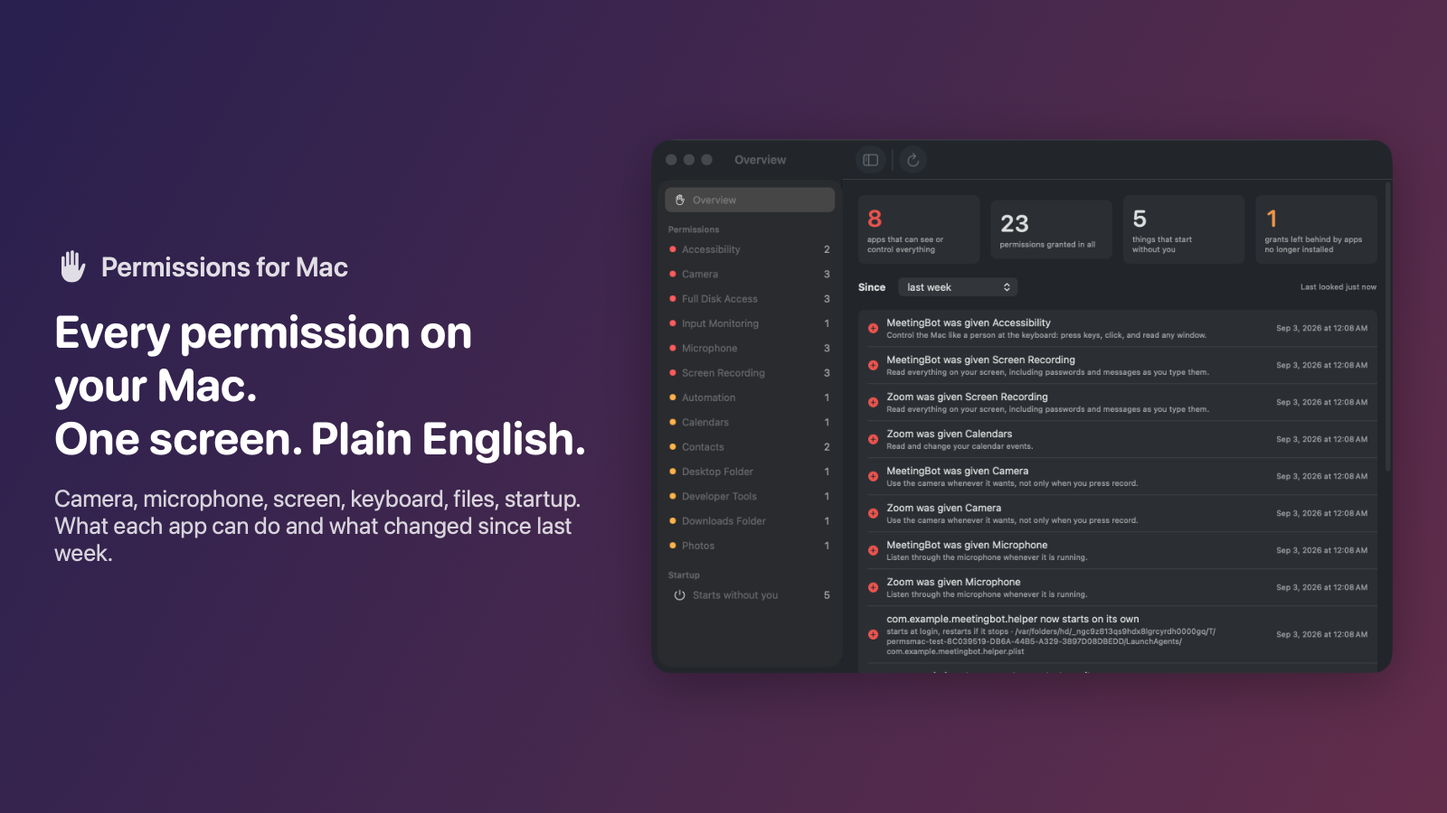
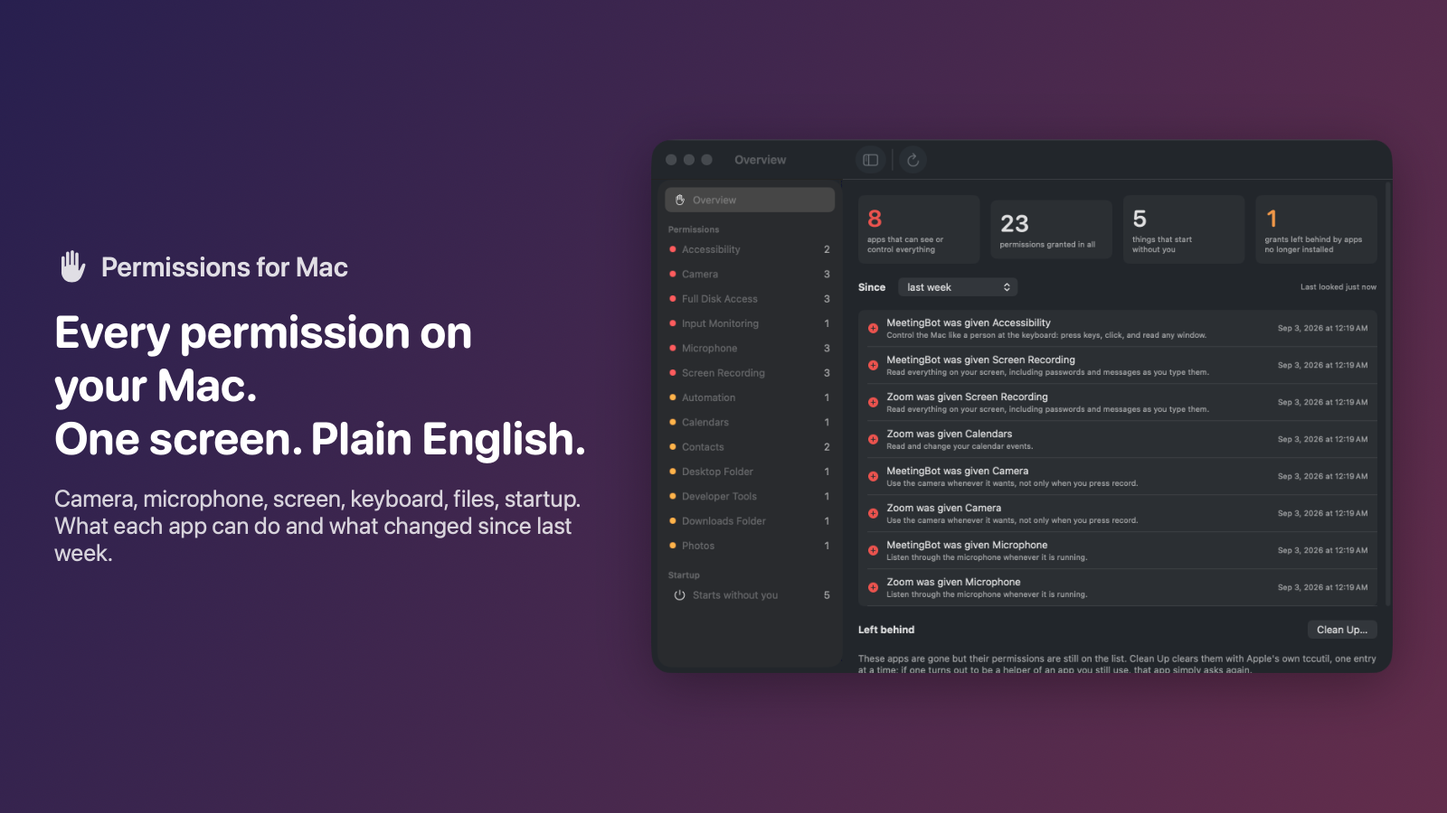
1.0.1: Clean Up for permissions left behind by removed apps
Uses Apple's tccutil reset, one entry at a time, after showing the list. Entries for installed apps, path-based entries and Apple's own are always skipped. CLI: orphans --commands and --clean. Wording everywhere becomes "never changes a permission for an app you have".

diff --git a/Sources/PermsMac/Tests/CleanupSuite.swift b/Sources/PermsMac/Tests/CleanupSuite.swift
@@ -1,0 +1,46 @@
+//  Permissions for Mac — MIT licensed. See LICENSE.
+import Foundation
+
+enum CleanupSuite {
+    static func grant(_ s: String, _ c: String, path: Bool = false, scope: Grant.Scope = .user) -> Grant {
+        Grant(service: s, client: c, clientIsPath: path, state: .allowed, reason: .userConsent, target: nil, modified: nil, scope: scope)
+    }
+    static let gone = "com.example.gone.\(UUID().uuidString)"
+    static let suite = TestSuite(name: "Cleanup", cases: [
+        TestCase(name: "commands use Apple's service names") { t in
+            t.equal(Cleanup.serviceArgument("kTCCServiceScreenCapture"), "ScreenCapture", "prefix dropped")
+            t.equal(Cleanup.serviceArgument("Odd"), "Odd", "unknown passes through")
+            t.equal(Cleanup.command(grant("kTCCServiceCamera", gone)), "tccutil reset Camera \(gone)", "command line")
+            let cmds = Cleanup.commands([grant("kTCCServiceCamera", gone), grant("kTCCServiceCamera", gone, scope: .system), grant("kTCCServiceMicrophone", "com.apple.FaceTime")])
+            t.equal(cmds, ["tccutil reset Camera \(gone)"], "deduplicated, Apple skipped")
+        },
+        TestCase(name: "refuses installed apps, paths and Apple") { t in
+            t.check(Cleanup.objection(grant("kTCCServiceCamera", "/usr/bin/say", path: true)) != nil, "path refused")
+            t.check(Cleanup.objection(grant("kTCCServiceCamera", "com.apple.Safari")) != nil, "apple refused")
+            t.check(Cleanup.objection(grant("kTCCServiceCamera", "com.apple.Calculator")) != nil, "installed apple app refused")
+            t.check(Cleanup.objection(grant("kTCCServiceCamera", gone)) == nil, "gone app allowed")
+            // Something that is certainly installed and not Apple: this app's own build if registered, else skip the check.
+            if let b = Bundle.main.bundleIdentifier, b == "com.keithadler.permsmac" { t.check(Cleanup.objection(grant("kTCCServiceCamera", b)) != nil, "installed non-Apple refused") }
+        },
+        TestCase(name: "runs one reset per entry and reports") { t in
+            var calls: [[String]] = []
+            let saved = Cleanup.runner; defer { Cleanup.runner = saved }
+            Cleanup.runner = { args in calls.append(args); return args.last == "com.example.bad" ? (1, "tccutil: Failed to reset") : (0, "Successfully reset \(args[1])") }
+            let r = Cleanup.run([grant("kTCCServiceCamera", gone), grant("kTCCServiceCamera", gone, scope: .system), grant("kTCCServiceMicrophone", gone),
+                                 grant("kTCCServiceCamera", "com.example.bad"), grant("kTCCServiceCamera", "/bin/x", path: true), grant("kTCCServiceCamera", "com.apple.x")])
+            t.equal(calls.count, 3, "three resets for four qualifying rows (duplicate covered)")
+            t.equal(calls.first, ["reset", "Camera", gone], "arguments")
+            t.equal(r.cleared.count, 3, "cleared includes the duplicate")
+            t.equal(r.failed.count, 1, "one failure"); t.equal(r.failed.first?.1, "tccutil: Failed to reset", "failure text")
+            t.equal(r.skipped.count, 2, "two skipped")
+            t.equal(r.summary, "3 cleared, 1 failed, 2 skipped", "summary")
+        },
+        TestCase(name: "never runs anything when nothing qualifies") { t in
+            var ran = false
+            let saved = Cleanup.runner; defer { Cleanup.runner = saved }
+            Cleanup.runner = { _ in ran = true; return (0, "") }
+            let r = Cleanup.run([grant("kTCCServiceCamera", "com.apple.x"), grant("kTCCServiceCamera", "/x", path: true)])
+            t.check(!ran, "no command ran"); t.equal(r.cleared.count, 0, "nothing cleared"); t.equal(r.summary, "0 cleared, 2 skipped", "summary")
+        },
+    ])
+}

diff --git a/Sources/PermsMac/PermsMacApp.swift b/Sources/PermsMac/PermsMacApp.swift
@@ -95,6 +95,8 @@ struct AccessBanner: View {
 
 struct OverviewView: View {
     @EnvironmentObject var model: PermsModel
+    @State private var confirmClean = false
+    @State private var cleanResult: String?
     var body: some View {
         ScrollView {
             VStack(alignment: .leading, spacing: 18) {
@@ -118,15 +120,45 @@ struct OverviewView: View {
                     VStack(spacing: 0) { ForEach(model.changes) { ChangeRow(change: $0) } }
                         .background(.quaternary.opacity(0.4), in: RoundedRectangle(cornerRadius: 8))
                 }
-                if !model.orphans.isEmpty {
-                    Text("Left behind").font(.headline)
-                    Text("These apps are gone but their permissions are still on the list. Removing them in System Settings is tidy, not urgent.").font(.callout).foregroundStyle(.secondary)
+                if !model.orphans.isEmpty || cleanResult != nil {
+                    HStack {
+                        Text("Left behind").font(.headline)
+                        Spacer()
+                        if !Cleanup.commands(model.orphans).isEmpty { Button("Clean Up…") { confirmClean = true } }
+                    }
+                    Text("These apps are gone but their permissions are still on the list. Clean Up clears them with Apple's own tccutil, one entry at a time; if one turns out to be a helper of an app you still use, that app simply asks again.").font(.callout).foregroundStyle(.secondary)
+                    if let cleanResult { Text(cleanResult).font(.callout) }
                     VStack(spacing: 0) { ForEach(model.orphans) { GrantRow(grant: $0, showService: true) } }
                         .background(.quaternary.opacity(0.4), in: RoundedRectangle(cornerRadius: 8))
                 }
             }.padding(20)
         }
         .navigationTitle("Overview")
+        .sheet(isPresented: $confirmClean) { CleanupSheet(grants: model.orphans) { r in cleanResult = r.summary.prefix(1).uppercased() + r.summary.dropFirst() + "."; model.refresh(notify: false) } }
+    }
+}
+
+struct CleanupSheet: View {
+    @Environment(\.dismiss) var dismiss
+    let grants: [Grant]
+    let done: (CleanupResult) -> Void
+    var body: some View {
+        let able = grants.filter { Cleanup.objection($0) == nil }
+        let unable = grants.filter { Cleanup.objection($0) != nil }
+        VStack(alignment: .leading, spacing: 12) {
+            Text("Clear \(able.count) leftover \(able.count == 1 ? "permission" : "permissions")?").font(.title3.bold())
+            Text("Each line runs Apple's tccutil for one app that no longer exists on disk. Nothing else is touched.").font(.callout).foregroundStyle(.secondary)
+            ScrollView {
+                VStack(alignment: .leading, spacing: 4) {
+                    ForEach(Cleanup.commands(able), id: \.self) { Text($0).font(.system(.caption, design: .monospaced)) }
+                    if !unable.isEmpty {
+                        Text("Left as they are:").font(.caption.bold()).padding(.top, 6)
+                        ForEach(unable) { g in Text("\(Catalog.service(g.service).name) · \(g.client): \(Cleanup.objection(g) ?? "")").font(.caption).foregroundStyle(.secondary) }
+                    }
+                }.frame(maxWidth: .infinity, alignment: .leading).padding(10)
+            }.frame(height: 200).background(.quaternary.opacity(0.4), in: RoundedRectangle(cornerRadius: 8))
+            HStack { Spacer(); Button("Cancel") { dismiss() }.keyboardShortcut(.cancelAction); Button("Clear") { done(Cleanup.run(able)); dismiss() }.keyboardShortcut(.defaultAction).buttonStyle(.borderedProminent) }
+        }.padding(20).frame(width: 560)
     }
 }
 

diff --git a/Sources/PermsMac/Cleanup.swift b/Sources/PermsMac/Cleanup.swift
@@ -1,0 +1,63 @@
+//  Permissions for Mac — MIT licensed. See LICENSE.
+//
+//  The one thing this app changes, and only when asked: permissions left behind by apps that no
+//  longer exist on disk. It uses Apple's own `tccutil reset`, one entry at a time, the same thing
+//  the "−" button in System Settings does. It refuses to touch an entry for an app that is still
+//  installed, so the promise stays: it never changes a permission for an app you have.
+
+import Foundation
+
+struct CleanupResult {
+    var cleared: [Grant] = []
+    var failed: [(Grant, String)] = []
+    var skipped: [(Grant, String)] = []
+    var summary: String {
+        var bits = ["\(cleared.count) cleared"]
+        if !failed.isEmpty { bits.append("\(failed.count) failed") }
+        if !skipped.isEmpty { bits.append("\(skipped.count) skipped") }
+        return bits.joined(separator: ", ")
+    }
+}
+
+enum Cleanup {
+    /// Runs one command and returns (exit code, combined output). Tests replace this.
+    static var runner: ([String]) -> (Int32, String) = { args in
+        let p = Process(); p.executableURL = URL(fileURLWithPath: "/usr/bin/tccutil"); p.arguments = args
+        let pipe = Pipe(); p.standardOutput = pipe; p.standardError = pipe
+        do { try p.run() } catch { return (127, "\(error)") }
+        p.waitUntilExit()
+        return (p.terminationStatus, String(decoding: pipe.fileHandleForReading.readDataToEndOfFile(), as: UTF8.self).trimmingCharacters(in: .whitespacesAndNewlines))
+    }
+
+    /// The tccutil service name is the key without its prefix: kTCCServiceCamera → Camera.
+    static func serviceArgument(_ key: String) -> String { key.hasPrefix("kTCCService") ? String(key.dropFirst("kTCCService".count)) : key }
+
+    /// Why an entry cannot be cleaned, or nil when it can.
+    static func objection(_ g: Grant) -> String? {
+        if g.clientIsPath || g.client.hasPrefix("/") { return "tccutil only works with bundle identifiers, not paths" }
+        if g.client.hasPrefix("com.apple.") { return "Apple's own entries are left alone" }
+        if !Apps.isOrphan(g.client, isPath: g.clientIsPath) { return "still installed; change it in System Settings" }
+        return nil
+    }
+
+    static func command(_ g: Grant) -> String { "tccutil reset \(serviceArgument(g.service)) \(g.client)" }
+
+    /// The commands a person could run themselves, for the entries that qualify.
+    static func commands(_ grants: [Grant]) -> [String] {
+        Array(Set(grants.filter { objection($0) == nil }.map(command))).sorted()
+    }
+
+    static func run(_ grants: [Grant]) -> CleanupResult {
+        var r = CleanupResult()
+        var done = Set<String>()
+        for g in grants {
+            if let why = objection(g) { r.skipped.append((g, why)); continue }
+            let key = "\(g.service)|\(g.client)"
+            if done.contains(key) { r.cleared.append(g); continue }    // same entry in both databases: one reset covers it
+            done.insert(key)
+            let (code, out) = runner(["reset", serviceArgument(g.service), g.client])
+            if code == 0 { r.cleared.append(g) } else { r.failed.append((g, out.isEmpty ? "tccutil exited \(code)" : out)) }
+        }
+        return r
+    }
+}

diff --git a/Sources/PermsMac/CLI.swift b/Sources/PermsMac/CLI.swift
@@ -14,6 +14,8 @@ enum CLI {
       permsmac changes [--since 7d|30d|24h] [--json]      what changed; exit 1 when something did
       permsmac startup [--apple] [--json]                 launch agents, daemons and login helpers
       permsmac orphans [--json]                           grants left behind by apps no longer installed
+      permsmac orphans --commands                         the tccutil lines that would clear them, to run yourself
+      permsmac orphans --clean [--json]                   clear them now with Apple's tccutil (only apps that are gone)
       permsmac explain <service>                          what a permission lets an app do
       permsmac open <service|login>                       the System Settings pane for it
       permsmac status [--json]                            can it read the database yet, when it last looked
@@ -21,6 +23,8 @@ enum CLI {
       permsmac selftest [--filter S] [--list] [--json]
       permsmac help | version
 
+    `orphans --clean` is the one thing that changes anything, and only for apps that no longer exist on
+    disk; entries for installed apps and Apple's own are always skipped.
     Reading the permissions database needs Full Disk Access for the process running this command:
     the app after you grant it, or Terminal if you have granted Terminal. Nothing here writes.
     Set PERMSMAC_HOME to keep the history somewhere else (tests do).
@@ -100,6 +104,21 @@ enum CLI {
             if let s = value("--service", args) {
                 guard let svc = findService(s) else { err("unknown permission: \(s)\n"); return 64 }
                 grants = grants.filter { $0.service == svc.key }
+            }
+            if cmd == "orphans" && flag("--commands", args) {
+                let c = Cleanup.commands(grants); for l in c { out(l) }
+                if c.isEmpty { err("Nothing to clear.\n") }; return c.isEmpty ? 0 : 1
+            }
+            if cmd == "orphans" && flag("--clean", args) {
+                let r = Cleanup.run(grants)
+                if js { out(json(["cleared": r.cleared.map(dict), "failed": r.failed.map { ["grant": dict($0.0), "error": $0.1] }, "skipped": r.skipped.map { ["grant": dict($0.0), "why": $0.1] }])) }
+                else {
+                    for g in r.cleared { out("cleared  \(Catalog.service(g.service).name)  \(g.client)") }
+                    for (g, e) in r.failed { out("failed   \(Catalog.service(g.service).name)  \(g.client): \(e)") }
+                    for (g, w) in r.skipped { out("skipped  \(Catalog.service(g.service).name)  \(g.client): \(w)") }
+                    out(r.summary)
+                }
+                return r.failed.isEmpty ? 0 : 2
             }
             if js { out(json(["complete": snap.complete, "grants": grants.map(dict)])); return cmd == "orphans" && !grants.isEmpty ? 1 : 0 }
             let groups = Dictionary(grouping: grants, by: \.service)

diff --git a/docs/Help.es.html b/docs/Help.es.html
@@ -39,7 +39,7 @@
 <tr><td>Gris</td><td>Limitado o inofensivo por sí solo</td><td>Recordatorios, Bluetooth, estado de Concentración</td></tr>
 </table>
 <p>Elige uno y la parte superior de la ventana dice, en una frase, qué puede hacer una app que lo tenga. Debajo, cada app que lo tiene, cómo lo obtuvo y cuándo.</p>
-<p><strong>Not installed</strong> junto a un nombre significa que la app ya no existe pero su permiso sigue en la lista. Conviene limpiarlo, pero no es urgente.</p>
+<p><strong>Not installed</strong> junto a un nombre significa que la app ya no existe pero su permiso sigue en la lista. Nada puede usar un permiso de una app que ya no existe, así que es orden, no urgencia. El botón <strong>Clean Up…</strong> de la vista general muestra esas entradas y, cuando confirmas, las borra una a una con el <code>tccutil reset</code> de Apple, lo mismo que hace el botón − de Ajustes del Sistema. Las entradas de apps instaladas, las guardadas por ruta y las de Apple nunca se tocan. Si una resulta ser un ayudante de una app que sigues usando, esa app simplemente vuelve a preguntar.</p>
 
 <h2 id="changes">Qué cambió</h2>
 <p>Cada vez que mira (cada cinco minutos mientras está abierta y cada vez que la traes al frente), Permissions for Mac guarda un pequeño registro de lo que vio. La vista general compara el registro más reciente con el de ayer, la semana pasada, el mes pasado o hace tres meses y lista lo que se concedió, rechazó o retiró, y qué elementos de inicio aparecieron o desaparecieron.</p>
@@ -50,7 +50,7 @@
 <p>Esta parte no necesita ningún permiso: son archivos normales que cualquiera puede leer.</p>
 
 <h2 id="fix">Cambiar algo</h2>
-<p>Permissions for Mac nunca cambia un interruptor. Apple solo lo permite en Ajustes del Sistema, y una herramienta que lee no debería también escribir. Lo que hace es llevarte allí con un clic:</p>
+<p>Permissions for Mac nunca cambia un permiso de una app que tienes. Apple solo lo permite en Ajustes del Sistema, y una herramienta que lee no debería también escribir. Lo que hace es llevarte allí con un clic:</p>
 <ul>
 <li><strong>Change in System Settings…</strong> en la parte superior de cada permiso abre el panel exacto.</li>
 <li>Clic derecho en cualquier fila para <strong>Show in Finder</strong>, el panel de ajustes o copiar el identificador.</li>
@@ -63,6 +63,8 @@ permsmac list
 permsmac changes --since 7d       # sale con 1 cuando algo cambió
 permsmac startup
 permsmac orphans
+permsmac orphans --commands       # las líneas de tccutil, para ejecutarlas tú
+permsmac orphans --clean          # ejecutarlas ahora
 permsmac explain accessibility
 permsmac open "screen recording"</pre>
 <p>El comando lee la misma base de datos, así que el proceso que lo ejecuta necesita Acceso total al disco: la app lo tiene una vez concedido; un comando en Terminal necesita que Terminal lo tenga.</p>

diff --git a/docs/Help.html b/docs/Help.html
@@ -39,7 +39,7 @@
 <tr><td>Grey</td><td>Narrow or harmless on its own</td><td>Reminders, Bluetooth, Focus status</td></tr>
 </table>
 <p>Pick one and the top of the window says, in a sentence, what an app holding it can do. Under it, every app that has it, with how it got it ("you clicked Allow", "set in System Settings", "set by a management profile") and when.</p>
-<p><strong>Not installed</strong> next to a name means the app is gone but its permission is still on the list. That is tidy to clean up, not urgent: nothing can use a permission it no longer exists to use.</p>
+<p><strong>Not installed</strong> next to a name means the app is gone but its permission is still on the list. Nothing can use a permission it no longer exists to use, so this is tidy rather than urgent. The Overview's <strong>Clean Up…</strong> button shows those entries and, when you confirm, clears them one at a time with Apple's own <code>tccutil reset</code>, the same thing the − button in System Settings does. Entries for apps that are still installed, entries stored by path, and Apple's own are never touched. If one of them turns out to be a helper of an app you still use, that app simply asks again.</p>
 
 <h2 id="changes">What changed</h2>
 <p>Each time it looks (every five minutes while it is open, and whenever you bring it forward), Permissions for Mac keeps a small record of what it saw. The Overview compares the newest record with the one from yesterday, last week, last month or three months ago and lists what was given, refused or removed, and which startup items appeared or went.</p>
@@ -51,7 +51,7 @@
 <p>This part needs no permission: they are plain files anyone can read.</p>
 
 <h2 id="fix">Changing something</h2>
-<p>Permissions for Mac never flips a switch. Apple only allows that in System Settings, and a tool that reads should not also write. What it does is get you there in one click:</p>
+<p>Permissions for Mac never changes a permission for an app you have. Apple only allows that in System Settings, and a tool that reads should not also write. What it does is get you there in one click:</p>
 <ul>
 <li><strong>Change in System Settings…</strong> at the top of every permission opens the exact pane.</li>
 <li>Right-click any row for <strong>Show in Finder</strong>, the settings pane, or copying the identifier.</li>
@@ -65,6 +65,8 @@ permsmac list --service camera --json
 permsmac changes --since 7d       # exit 1 when something changed, so it works in a script
 permsmac startup
 permsmac orphans                  # grants left behind by removed apps
+permsmac orphans --commands       # the tccutil lines, to run yourself
+permsmac orphans --clean          # run them now
 permsmac explain accessibility
 permsmac open "screen recording"  # the System Settings pane
 permsmac status</pre>

diff --git a/docs/announcement.html b/docs/announcement.html
@@ -21,7 +21,7 @@
 <div class="card"><h3>Says what it means</h3>"Read everything on your screen, including passwords and messages as you type them." Not "Screen Recording". Most sensitive first.</div>
 <div class="card"><h3>Tells you what changed</h3>A record each time it looks. Given, refused, removed, since yesterday or last month. A notification when an app gains one of the big ones.</div>
 <div class="card"><h3>Shows what starts without you</h3>Launch agents, daemons and login helpers, with when they run and what they start. Apple's own hidden by default.</div>
-<div class="card"><h3>Reads. Never changes anything.</h3>One Full Disk Access grant so it can read the list. Every switch stays in System Settings, one click away from each row.</div>
+<div class="card"><h3>Never changes a permission for an app you have</h3>One Full Disk Access grant so it can read the list. Every switch stays in System Settings, one click away. Leftovers from apps you removed can be cleared in one click, with Apple's own tool.</div>
 </div>
 <img src="screenshots/screen-recording.png" alt="Screen Recording: which apps hold it, how they got it, when">
 <h2>Also a real command line</h2>

diff --git a/Sources/PermsMac/Promo.swift b/Sources/PermsMac/Promo.swift
@@ -12,7 +12,7 @@ enum Promo {
         let cards: [(String, String, String, String?)] = [
             ("1-hero", "Every permission on your Mac.\nOne screen. Plain English.", "Camera, microphone, screen, keyboard, files, startup. What each app can do and what changed since last week.", "overview.png"),
             ("2-change", "Zoom was given Screen Recording.\nThursday.", "Permissions for Mac keeps a record each time it looks and tells you when something new appears.", "screen-recording.png"),
-            ("3-honest", "It reads. It never changes anything.", "One Full Disk Access grant so it can read the list. The switches stay in System Settings, one click away.", "camera.png"),
+            ("3-honest", "It never changes a permission\nfor an app you have.", "One Full Disk Access grant so it can read the list. The switches stay in System Settings, one click away. Leftovers from apps you removed: one click, Apple's own tool.", "camera.png"),
             ("4-free", "Free. Open source. No account.", "MIT licensed, no server, no analytics. Also a real command line: permsmac changes --since 7d", nil),
         ]
         for (name, title, sub, shot) in cards {

diff --git a/Sources/PermsMac/Screenshots.swift b/Sources/PermsMac/Screenshots.swift
@@ -23,8 +23,9 @@ enum Screenshots {
         let model = PermsModel.shared
         // Two records a week apart so the overview has changes to show.
         let earlier = TCC.read()
-        var records = [Record(date: Date().addingTimeInterval(-8 * 86400), grants: earlier.grants.filter { !Demo.recent.contains($0.client) }, startup: [], complete: true)]
-        History.append(Record(grants: earlier.grants, startup: [], complete: true), to: &records); History.save(records)
+        let startup = Startup.scan()   // present in both records: the demo shows permission changes, not temp-folder paths
+        var records = [Record(date: Date().addingTimeInterval(-8 * 86400), grants: earlier.grants.filter { !Demo.recent.contains($0.client) }, startup: startup, complete: true)]
+        History.append(Record(grants: earlier.grants, startup: startup, complete: true), to: &records); History.save(records)
         model.records = records
         model.refresh(notify: false)
 

diff --git a/Sources/PermsMac/TestKit.swift b/Sources/PermsMac/TestKit.swift
@@ -19,7 +19,7 @@ struct TestCase { let name: String; let run: @MainActor (T) throws -> Void }
 struct TestSuite { let name: String; let cases: [TestCase] }
 
 enum TestKit {
-    static var suites: [TestSuite] { [CatalogSuite.suite, TCCSuite.suite, HistorySuite.suite, StartupSuite.suite, CLISuite.suite] }
+    static var suites: [TestSuite] { [CatalogSuite.suite, TCCSuite.suite, HistorySuite.suite, StartupSuite.suite, CLISuite.suite, CleanupSuite.suite] }
 
     struct Result { let suite: String, name: String, failures: [String], skipped: String?, checks: Int, ms: Double; var passed: Bool { failures.isEmpty && skipped == nil } }
 

diff --git a/Tests/PermsMacTests/SuiteTests.swift b/Tests/PermsMacTests/SuiteTests.swift
@@ -12,4 +12,5 @@ final class SuiteTests: XCTestCase {
     @MainActor func testHistory() { runSuite("History") }
     @MainActor func testStartup() { runSuite("Startup") }
     @MainActor func testCLI() { runSuite("CLI") }
+    @MainActor func testCleanup() { runSuite("Cleanup") }
 }

diff --git a/README.md b/README.md
@@ -2,11 +2,11 @@
 
 Every permission on your Mac on one screen, in plain English, with what changed since last week.
 
-Camera, microphone, screen recording, keyboard, files, contacts, automation, and everything that starts without you. Each one with a sentence that says what an app holding it can actually do, and a button to the exact System Settings pane. It reads and never changes anything.
+Camera, microphone, screen recording, keyboard, files, contacts, automation, and everything that starts without you. Each one with a sentence that says what an app holding it can actually do, and a button to the exact System Settings pane. It never changes a permission for an app you have.
 
 ## Download
 
-**[Download Permissions-for-Mac-1.0.0.dmg](https://github.com/keithadler/permsmac/releases/latest/download/Permissions-for-Mac-1.0.0.dmg)** (macOS 14 or later, Apple Silicon and Intel)
+**[Download Permissions-for-Mac-1.0.1.dmg](https://github.com/keithadler/permsmac/releases/latest/download/Permissions-for-Mac-1.0.1.dmg)** (macOS 14 or later, Apple Silicon and Intel)
 
 Open the DMG, drag the app to Applications, open it. The first time, macOS says the app is from an unidentified developer: right-click the app, choose Open, then Open again. That is once.
 
@@ -16,12 +16,12 @@ When the app asks for Full Disk Access, that is the one permission it needs: mac
 
 ## What it does
 
-- **One list.** Every permission macOS tracks, grouped by what it lets an app do, most sensitive first. Apps you have removed but that still hold a permission are marked.
+- **One list.** Every permission macOS tracks, grouped by what it lets an app do, most sensitive first. Apps you have removed but that still hold a permission are marked, and one click clears those leftovers with Apple's own `tccutil`, only for apps that no longer exist on disk.
 - **Plain English.** "Read everything on your screen, including passwords and messages as you type them." Not "Screen Recording".
 - **What changed.** Each time it looks it keeps a small record. The overview shows what was granted, refused or removed since yesterday, last week, or last month, and a notification arrives when an app gains a permission that can see or control everything.
 - **Startup.** Launch agents, launch daemons and login helpers, with when they run and what they start. No permission needed for this part.
 - **One click to the switch.** Every row opens the right System Settings pane. The app never flips a switch itself.
-- **A real command line.** `permsmac list`, `permsmac changes --since 7d` (exit 1 when something changed, so it fits in a script), `permsmac startup`, `permsmac orphans`, all with `--json`.
+- **A real command line.** `permsmac list`, `permsmac changes --since 7d` (exit 1 when something changed, so it fits in a script), `permsmac startup`, `permsmac orphans` (`--commands` prints the tccutil lines, `--clean` runs them), all with `--json`.
 
 ![Screen Recording](docs/screenshots/screen-recording.png)
 
@@ -39,7 +39,7 @@ The command reads the same database, so the process running it needs Full Disk A
 
 ## What it does not do
 
-- It does not change permissions. Apple only allows that through System Settings, and a tool that reads should not also write.
+- It does not change a permission for an app you have. Apple only allows that through System Settings. The one exception is Clean Up, which clears entries left behind by apps that no longer exist, using Apple's `tccutil`, only when you click.
 - It does not see Location Services or Local Network in detail; macOS keeps those elsewhere, readable only by root.
 - It does not phone home. No analytics, no server, no account. The update check asks GitHub once a day for the latest version number and can be turned off.
 
